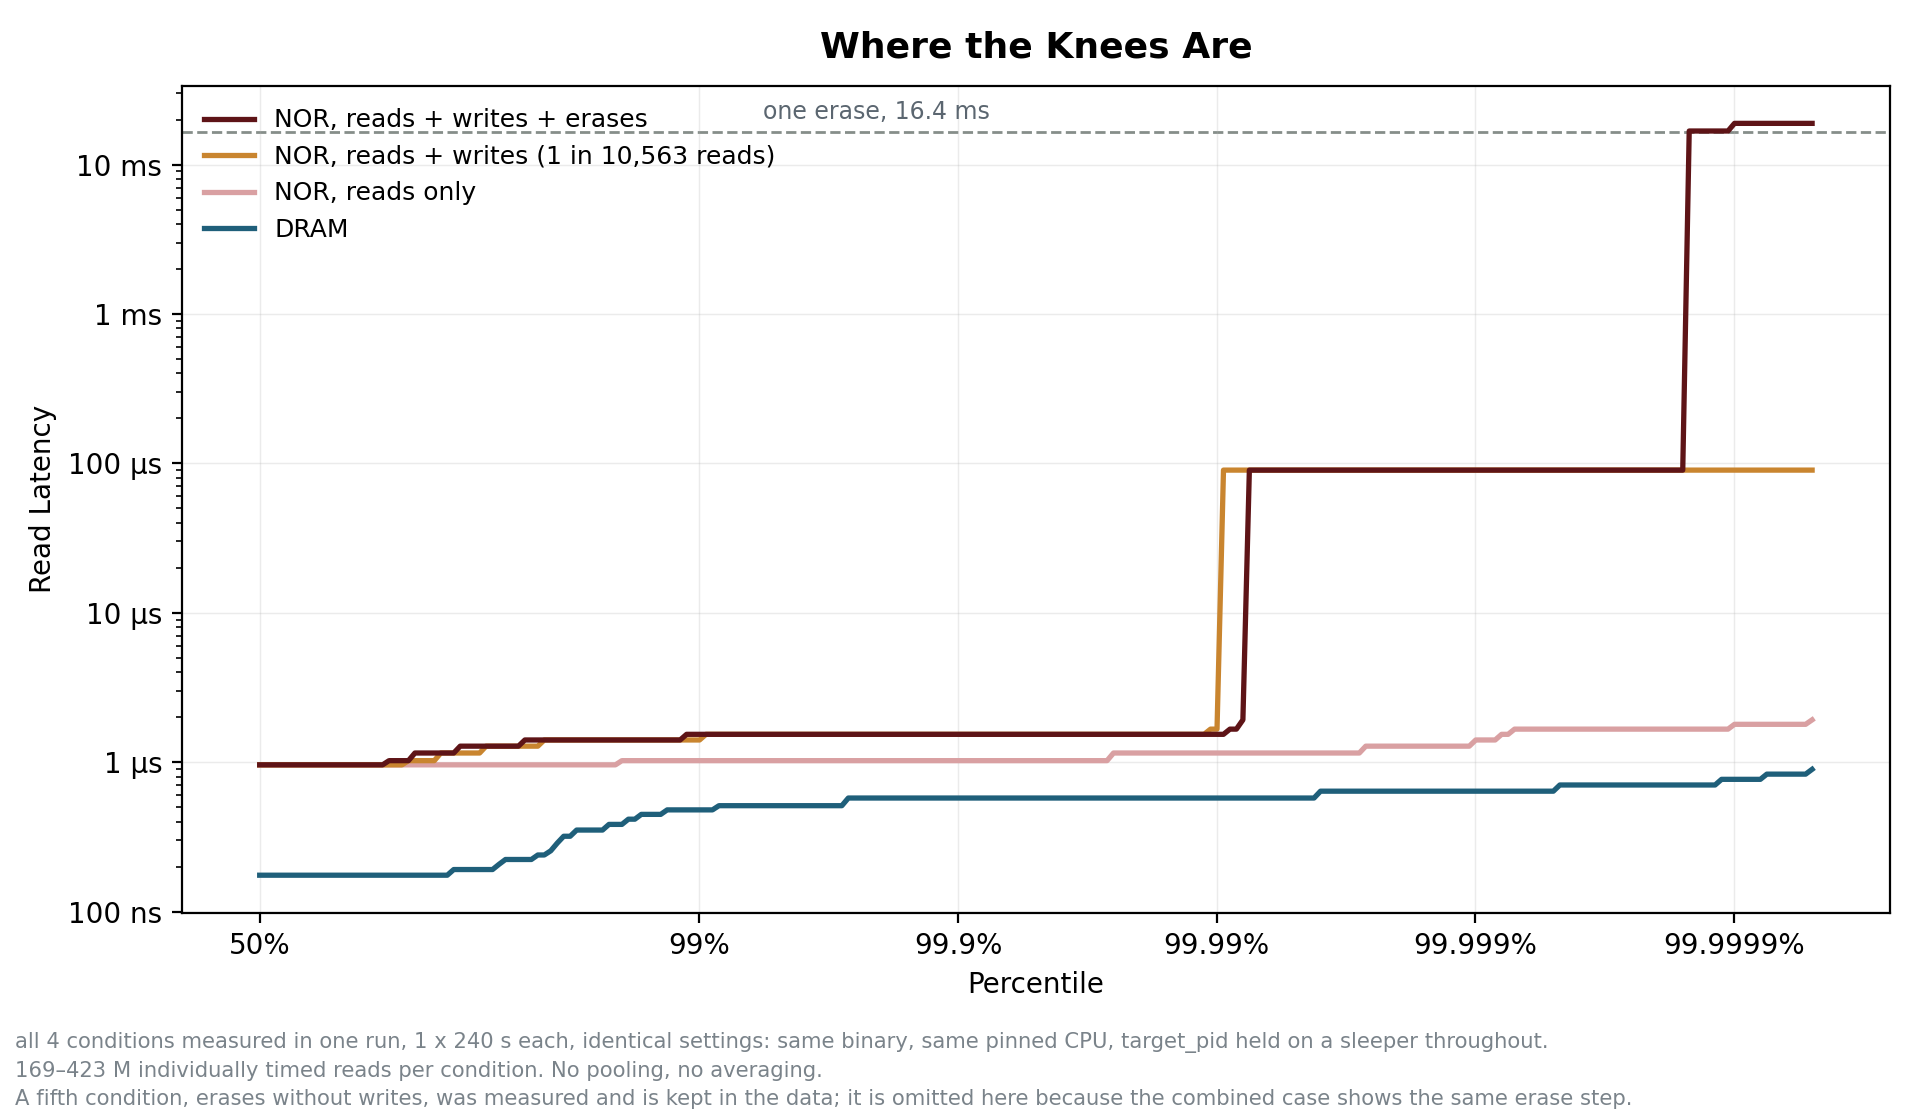
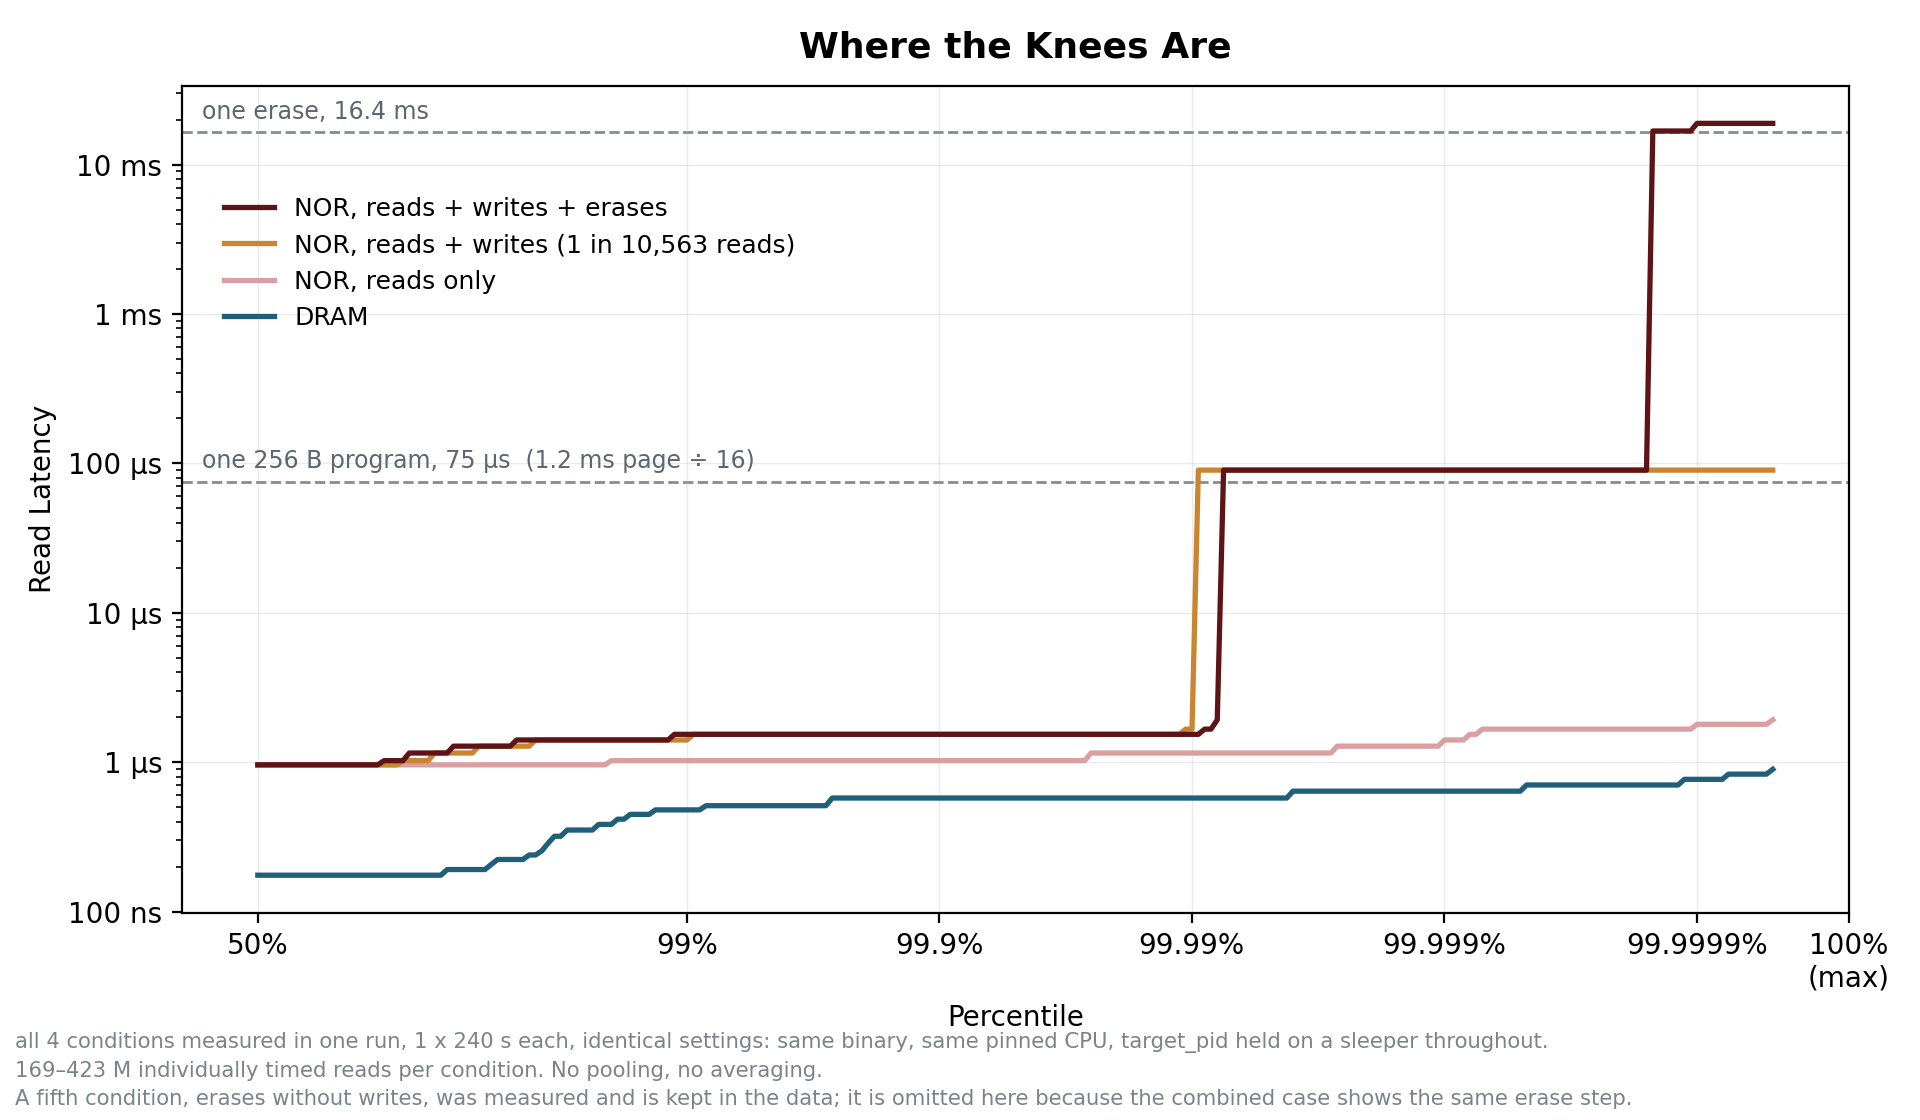
fig9b/9c polish, and the census plotter
fig9b:
  - a program reference to match the erase one. 16.4 ms was on the figure
    with nothing to compare it against, when the whole asymmetry is that a
    read waits out a WHOLE erase but only ONE CHUNK of a program. The line
    is 1.2 ms / 16, both datasheet, both the unit a read actually waits on --
    and the measured 90.1 us step lands just above it.
  - both reference labels flush left, as a pair rather than two loose notes.
  - the legend drops below the erase line instead of crossing it.
  - the axis ends on a labelled 100% (max) tick: with n reads the largest
    observation IS the 1-1/n quantile, so the end of the axis has a name.

fig9c: drops the "(1 in N reads)" and left-aligns the row labels, so the
rows stack as reads / reads+writes / reads+writes+erases and what each one
adds reads straight down the column.

plot_census.py is new: the motivation figure. Stacked, not paired -- the
lower segment is what cold-page tiering can move, the upper is what only
the write-cold test reaches, so the segment boundary IS the claim instead
of a difference the reader has to compute from two bar heights. Verified
end to end on stand-in data; it found two real bugs doing it, a workload
label containing a comma (rw_census now writes proper CSV) and 3840 s
rendering as 1.06667h.

diff --git a/scripts/plot_census.py b/scripts/plot_census.py
@@ -1,0 +1,134 @@
+#!/usr/bin/env python3
+"""The motivation figure: how much more memory is movable if you ask a
+different question.
+
+    ./plot_census.py census/*.csv -o docs/figures
+
+Cold-page tiering -- Google's software-defined far memory, Meta's TMO -- moves
+pages NOT ACCESSED for T seconds. LtRAM moves pages NOT WRITTEN for T seconds.
+The second set contains the first by construction: a page read a million times
+a second and never written is write-cold and is not cold.
+
+So each bar is stacked rather than paired. The lower segment is what prior
+work can move; the upper segment is what only the write-cold test reaches. The
+segment boundary IS the claim, and stacking puts it where the eye lands
+instead of asking the reader to subtract two bar heights.
+
+Input is rw_census.py's CSV:
+    workload,T_sec,pages,write_cold_pct,cold_pct,windows_averaged
+"""
+import csv, os, sys, argparse, math
+import matplotlib; matplotlib.use("Agg")
+import matplotlib.pyplot as plt
+
+ap = argparse.ArgumentParser()
+ap.add_argument("csv", nargs="+")
+ap.add_argument("-o", "--out", default=".")
+ap.add_argument("--at", type=float, default=None,
+                help="T to call out on each panel (default: the largest measured)")
+a = ap.parse_args()
+
+C_COLD  = "#1F5F7A"   # reachable today
+C_EXTRA = "#C9852F"   # reachable only by asking about writes
+C_GRID  = "#868E8A"
+
+def tlabel(t):
+    t = float(t)
+    if t < 60:                       return f"{t:g}s"
+    if t < 5400 or t % 3600:         return f"{t/60:g}m"   # 3840s reads as 64m
+    return f"{t/3600:g}h"                                  # not 1.06667h
+
+def thin(ts, keep=9):
+    """Log-spaced subset of the measured thresholds.
+
+    The census emits every multiple of S, which for an 8 h run at S=120 is 240
+    of them. All are real; a bar chart can only carry about nine. Log spacing
+    keeps both ends and the knee, where linear spacing would spend every bar
+    on the flat tail.
+    """
+    if len(ts) <= keep: return list(range(len(ts)))
+    lo, hi = math.log(ts[0]), math.log(ts[-1])
+    want = [math.exp(lo + (hi - lo) * i / (keep - 1)) for i in range(keep)]
+    idx = sorted({min(range(len(ts)), key=lambda j: abs(math.log(ts[j]) - w))
+                  for w in want})
+    return idx
+
+# ---------------------------------------------------------------- load
+work = {}
+for p in a.csv:
+    with open(p) as f:
+        for r in csv.DictReader(f):
+            if not r.get("T_sec"): continue
+            work.setdefault(r["workload"], []).append(
+                (float(r["T_sec"]), float(r["write_cold_pct"]),
+                 float(r["cold_pct"]), int(r["pages"])))
+if not work:
+    sys.exit("no rows")
+for k in work: work[k].sort()
+
+names = sorted(work)
+n = len(names)
+ncol = 1 if n == 1 else (2 if n <= 4 else 3)
+nrow = math.ceil(n / ncol)
+fig, axes = plt.subplots(nrow, ncol, figsize=(6.4 * ncol, 4.0 * nrow),
+                         squeeze=False)
+
+for k, name in enumerate(names):
+    ax = axes[k // ncol][k % ncol]
+    pts = work[name]
+    pts = [pts[j] for j in thin([p[0] for p in pts])]
+    ts   = [p[0] for p in pts]
+    wc   = [p[1] for p in pts]
+    cold = [p[2] for p in pts]
+    # cold_pct is -1 when the run had no root and could not read page_idle.
+    have_cold = all(c >= 0 for c in cold)
+    x = range(len(ts))
+
+    if have_cold:
+        ax.bar(x, cold, width=.72, color=C_COLD, zorder=3,
+               label="cold: not accessed in T  (what cold-page tiering moves)")
+        ax.bar(x, [w - c for w, c in zip(wc, cold)], width=.72, bottom=cold,
+               color=C_EXTRA, zorder=3,
+               label="write-cold only: read, but not written in T  (what LtRAM adds)")
+    else:
+        ax.bar(x, wc, width=.72, color=C_EXTRA, zorder=3,
+               label="write-cold: not written in T")
+
+    # One callout, on the T the argument is actually made at. A number the
+    # reader can quote beats a bar they have to measure against the axis.
+    tcall = a.at if a.at is not None else ts[-1]
+    i = min(range(len(ts)), key=lambda j: abs(ts[j] - tcall))
+    if have_cold:
+        # Nudge off the frame when the callout sits on the last bar.
+        ha = "right" if i >= len(ts) - 1 else ("left" if i == 0 else "center")
+        dx = {"right": 10, "left": -10, "center": 0}[ha]
+        ax.annotate(f"{cold[i]:.0f}% \u2192 {wc[i]:.0f}%",
+                    (i, wc[i]), xytext=(dx, 7), textcoords="offset points",
+                    ha=ha, fontsize=10, weight="semibold", color="#3d474e")
+
+    mib = pts[0][3] * os.sysconf("SC_PAGE_SIZE") / 2**20
+    ax.set_title(f"{name}   ({mib:,.0f} MiB resident)", fontsize=12,
+                 weight="semibold", pad=10)
+    ax.set_xticks(list(x)); ax.set_xticklabels([tlabel(t) for t in ts], fontsize=9)
+    ax.set_ylim(0, 105); ax.set_yticks([0, 25, 50, 75, 100])
+    ax.set_yticklabels(["0", "25%", "50%", "75%", "100%"])
+    ax.set_xlabel("T, age threshold"); ax.set_ylabel("share of resident pages")
+    ax.grid(axis="y", alpha=.25, lw=.5); ax.set_axisbelow(True)
+    for s in ("top", "right"): ax.spines[s].set_visible(False)
+
+for k in range(n, nrow * ncol):
+    axes[k // ncol][k % ncol].axis("off")
+
+h, l = axes[0][0].get_legend_handles_labels()
+fig.legend(h[::-1], l[::-1], loc="lower center", ncol=1, frameon=False,
+           fontsize=10, bbox_to_anchor=(0.5, 0.0))
+fig.suptitle("Write-Cold Against Cold", fontsize=14, weight="semibold", y=0.995)
+fig.tight_layout(rect=[0, 0.055 + 0.02 * (2 - min(2, nrow)), 1, 0.975])
+os.makedirs(a.out, exist_ok=True)
+p = os.path.join(a.out, "fig10-write-cold.png")
+fig.savefig(p, dpi=200)
+print("wrote", p)
+for name in names:
+    pts = work[name]
+    print(f"  {name}: T={tlabel(pts[-1][0])}  cold {pts[-1][2]:.1f}%  "
+          f"write-cold {pts[-1][1]:.1f}%")

diff --git a/scripts/plot_selftest.py b/scripts/plot_selftest.py
@@ -621,12 +621,18 @@ if r:
         cells, rowlab, rowcol = [], [], []
         for cond, colour, label in have:
             cells.append([fmt(pct(cond, q)) for q, _ in QS])
-            rowlab.append(label); rowcol.append(colour)
+            # Strip the "(1 in N reads)" frequency here. In the table the row
+            # labels are the only place the incremental structure shows, and
+            # left-aligned with the parenthetical gone they stack as
+            # reads / reads + writes / reads + writes + erases -- so what each
+            # row adds is legible down the column.
+            rowlab.append(label.split("  (")[0].split(" (")[0])
+            rowcol.append(colour)
         nrow = len(have)
         figt, axt = plt.subplots(figsize=(11.5, 0.42 * nrow + 0.8))
         axt.axis("off")
         tb = axt.table(cellText=cells, colLabels=cols, rowLabels=rowlab,
-                       cellLoc="center", rowLoc="right", loc="center")
+                       cellLoc="center", rowLoc="left", loc="center")
         tb.auto_set_font_size(False); tb.set_fontsize(9.5); tb.scale(1, 1.75)
         for (row, col), cell in tb.get_celld().items():
             cell.set_edgecolor("#D5D8DA"); cell.set_linewidth(.6)
@@ -634,8 +640,10 @@ if r:
                 cell.set_text_props(weight="semibold", color="#3d474e")
                 cell.set_facecolor("#F2F3F4")
             elif col == -1:
-                cell.set_text_props(color=rowcol[row - 1], weight="semibold")
+                cell.set_text_props(color=rowcol[row - 1], weight="semibold",
+                                    ha="left")
                 cell.set_facecolor("none"); cell.set_edgecolor("none")
+                cell.PAD = 0.04
             else:
                 cell.set_text_props(color=rowcol[row - 1])
         axt.set_title("Read Latency Percentiles, per Access", fontsize=13,
@@ -679,22 +687,30 @@ if r:
                          (0.015, fl * 2.6), xycoords=("axes fraction", "data"),
                          fontsize=8.5, color="#5b6670", va="bottom")
         ax2.axhline(16_400_000, color=C_GRID, lw=1, ls="--", zorder=1)
+        ax2.axhline(75_000, color=C_GRID, lw=1, ls="--", zorder=1)
+        ax2.annotate("one 256 B program, 75 \u00b5s  (1.2 ms page \u00f7 16)",
+                     (0.012, 75_000), xycoords=("axes fraction", "data"),
+                     xytext=(0, 5), textcoords="offset points", ha="left",
+                     fontsize=8.5, color="#5b6670")
         # Right-aligned: the legend owns the top-left, and the curves reach
         # this line only at the far right, so the label sits over empty axis.
         # Mid-axis: the legend owns the top-left and the erase curve climbs
         # through the top-right, so the only clear span is the middle.
-        ax2.annotate("one erase, 16.4 ms", (0.34, 16_400_000),
+        ax2.annotate("one erase, 16.4 ms", (0.012, 16_400_000),
                      xycoords=("axes fraction", "data"), xytext=(0, 5),
                      textcoords="offset points", ha="left",
                      fontsize=8.5, color="#5b6670")
         ax2.set_yscale("log")
-        ax2.set_xticks([nines(q) for q, _ in NINES])
-        ax2.set_xticklabels([lab for _, lab in NINES])
+        XR = nines(0.99999975)
+        ax2.set_xticks([nines(q) for q, _ in NINES] + [XR])
+        ax2.set_xticklabels([lab for _, lab in NINES] + ["100%\n(max)"])
         ax2.set_yticks([1e2, 1e3, 1e4, 1e5, 1e6, 1e7])
         ax2.set_yticklabels(["100 ns", "1 \u00b5s", "10 \u00b5s", "100 \u00b5s", "1 ms", "10 ms"])
-        ax2.set_xlim(0, nines(0.99999975))
+        ax2.set_xlim(0, XR)
         frame(ax2, "Where the Knees Are", "Percentile", "Read Latency")
-        legend_by_last(ax2, fontsize=9, frameon=False, loc="upper left")
+        legend_by_last(ax2, fontsize=9, frameon=False, loc="upper left",
+                       bbox_to_anchor=(0.012, 16_400_000 / 1.9),
+                       bbox_transform=ax2.get_yaxis_transform())
         # Provenance, because "how was this measured" should not require
         # reading a commit message. n is the pooled read count; repeats are
         # separate 60 s phases at different positions in the run, summed as
@@ -703,7 +719,7 @@ if r:
         # than repeating it per curve and running off the edge.
         ns = sorted(sum(c for _, c in hist(c0)) for c0, _, _ in have)
         reps = sorted({"1 x 240 s" for _ in have})
-        fig2.tight_layout()
+        fig2.tight_layout(rect=[0, 0.075, 1, 1])
         fig2.text(0.008, 0.010,
                   f"all {len(have)} conditions measured in one run, {reps[0]} each, identical settings: "
                   f"same binary, same pinned CPU, target_pid held on a sleeper throughout.\n"

diff --git a/scripts/rw_census.py b/scripts/rw_census.py
@@ -185,12 +185,18 @@ for w in range(NW):
     print(f"# window {w+1}/{NW} done", file=sys.stderr)
 
 out = sys.stdout if a.out == "-" else open(a.out, "w")
-print("workload,T_sec,pages,write_cold_pct,cold_pct,windows_averaged", file=out)
+# csv.writer, not an f-string: a label like "redis (ycsb-c, 95/5)" carries a
+# comma, and hand-formatted rows shift every column after it by one.
+import csv as _csv
+w_ = _csv.writer(out, lineterminator="\n")
+w_.writerow(["workload", "T_sec", "pages", "write_cold_pct", "cold_pct",
+             "windows_averaged"])
 for T in sorted(acc_wc):
     n = nobs[T]
     wc = 100.0 * acc_wc[T] / n / N
-    cd = (100.0 * acc_cold[T] / n / N) if HAVE_IDLE else float("nan")
-    print(f"{label},{T},{N},{wc:.2f},{cd:.2f},{n}", file=out)
+    # -1, not nan: it round-trips through CSV and the plotter tests for it.
+    cd = (100.0 * acc_cold[T] / n / N) if HAVE_IDLE else -1.0
+    w_.writerow([label, T, N, f"{wc:.2f}", f"{cd:.2f}", n])
 if proc:
     try: os.killpg(os.getpgid(proc.pid), signal.SIGTERM)
     except Exception: pass
